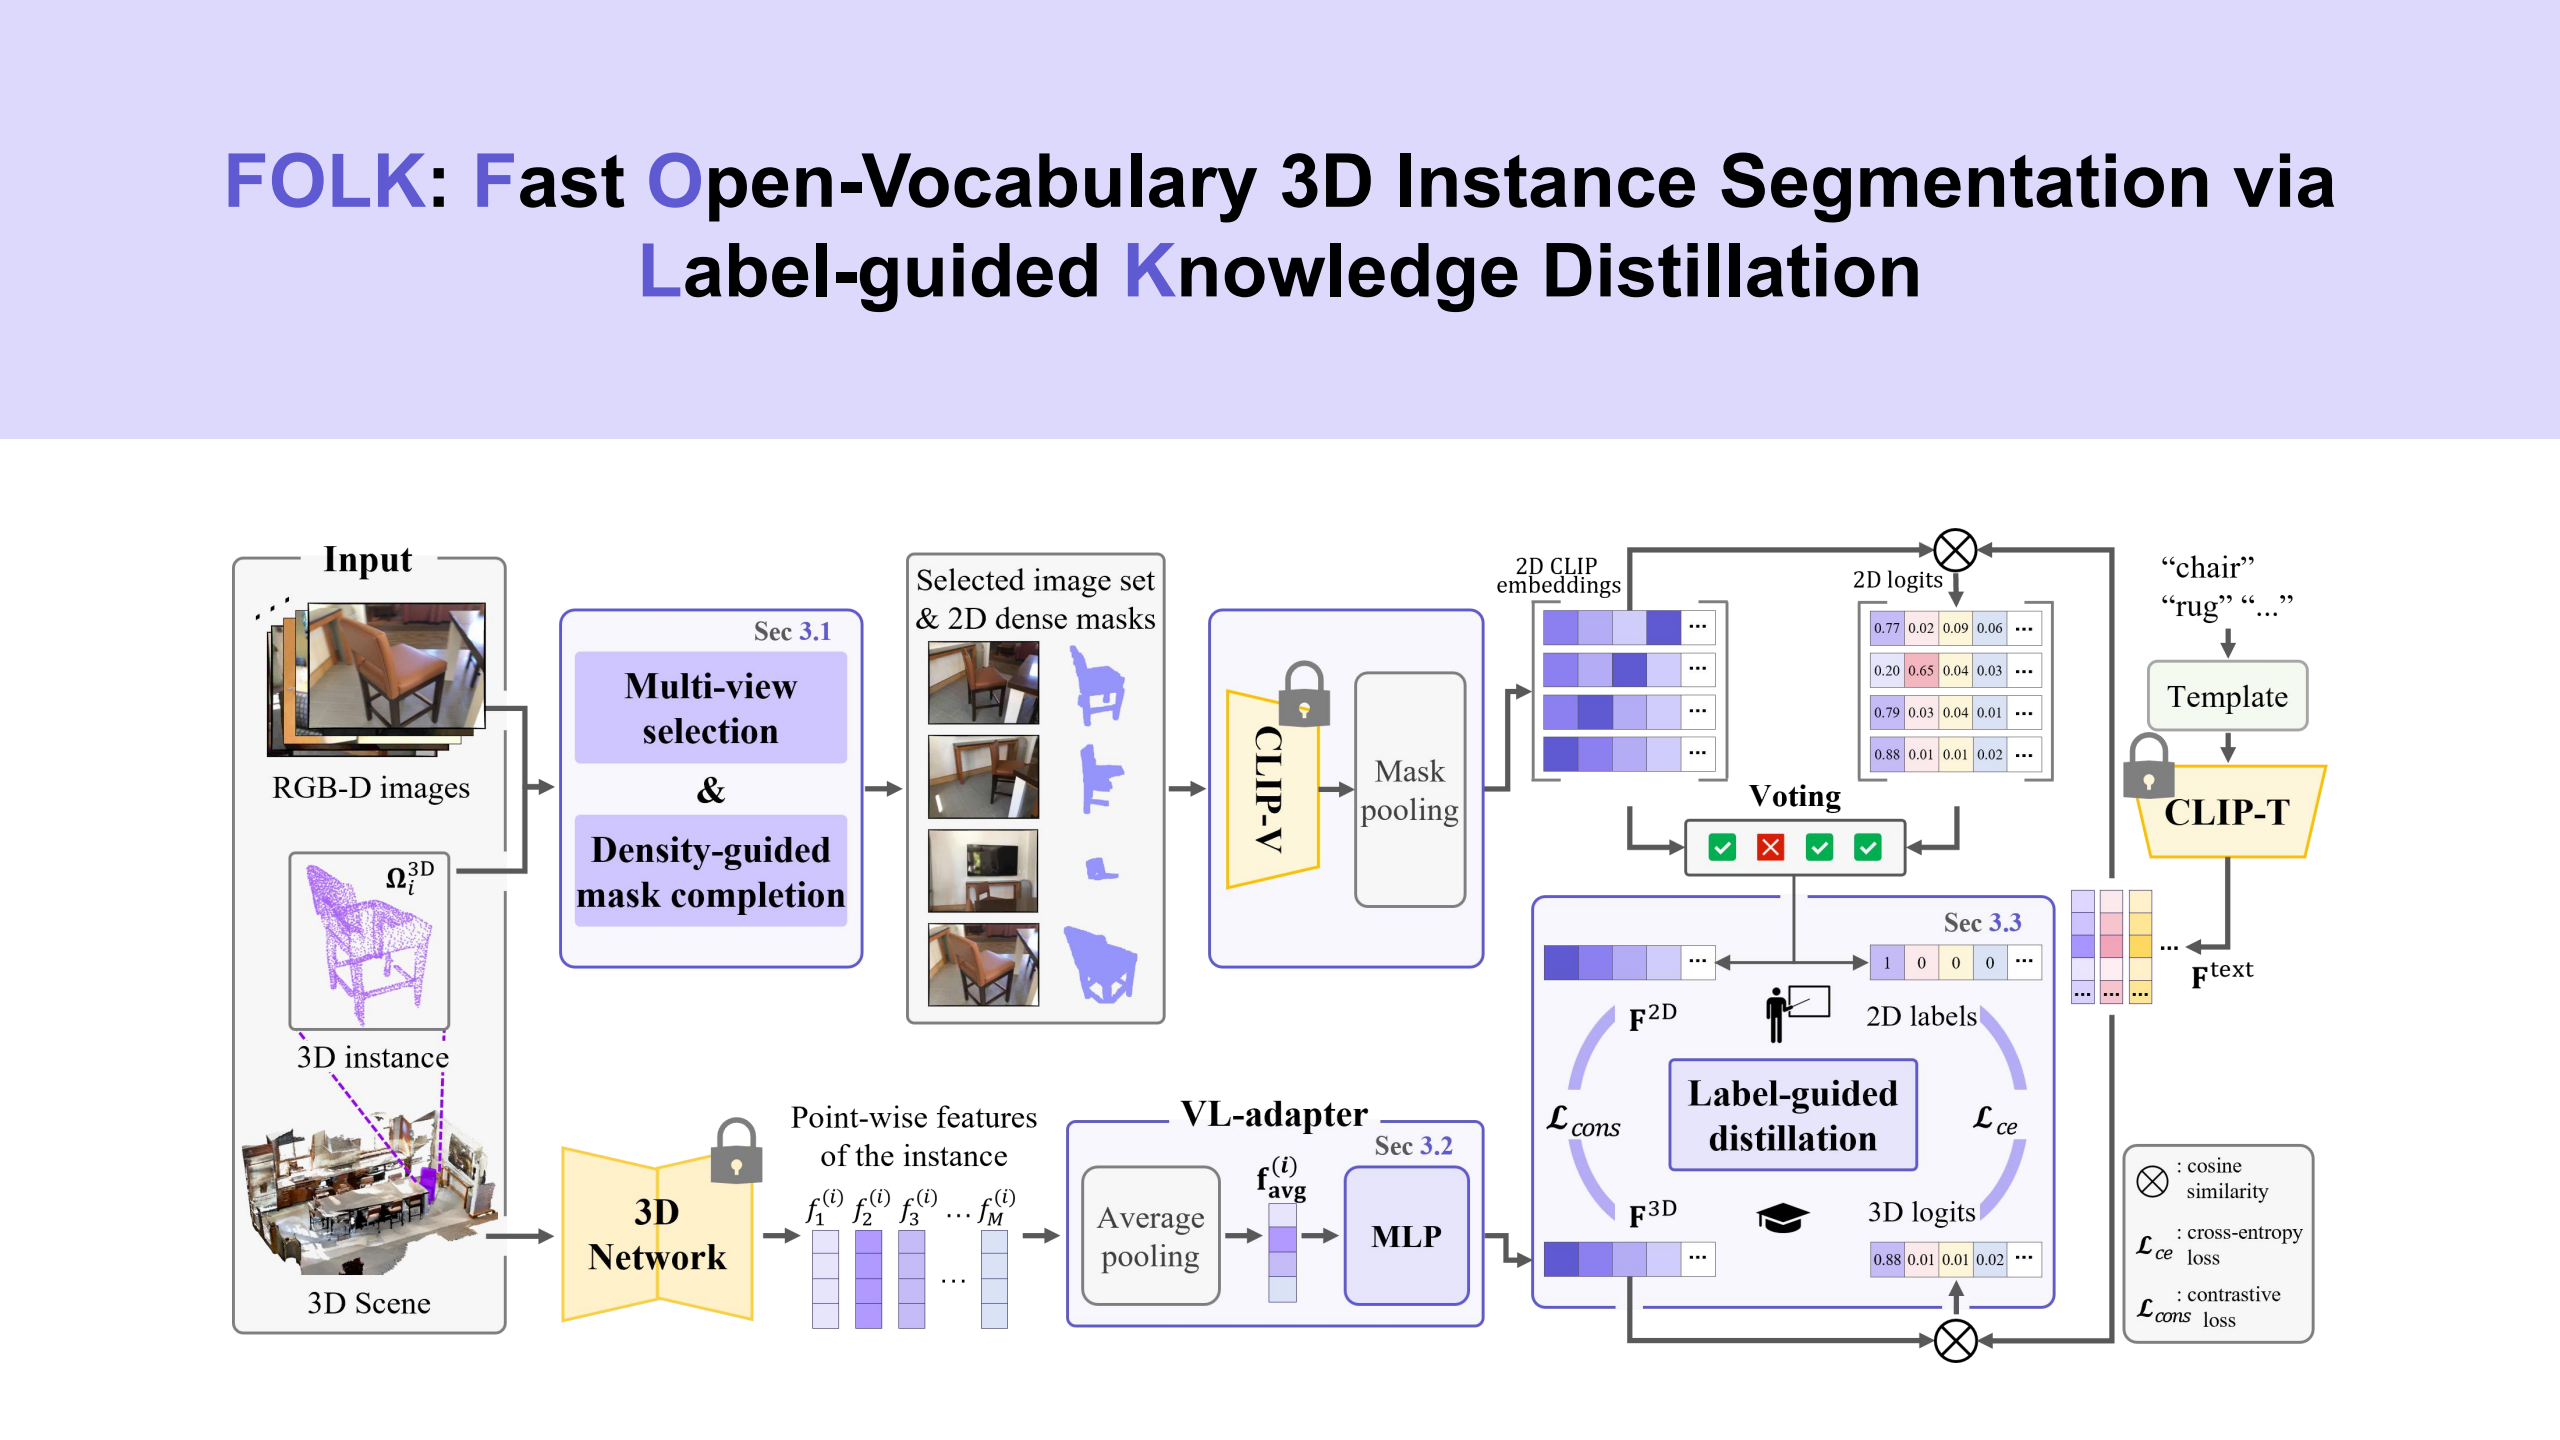
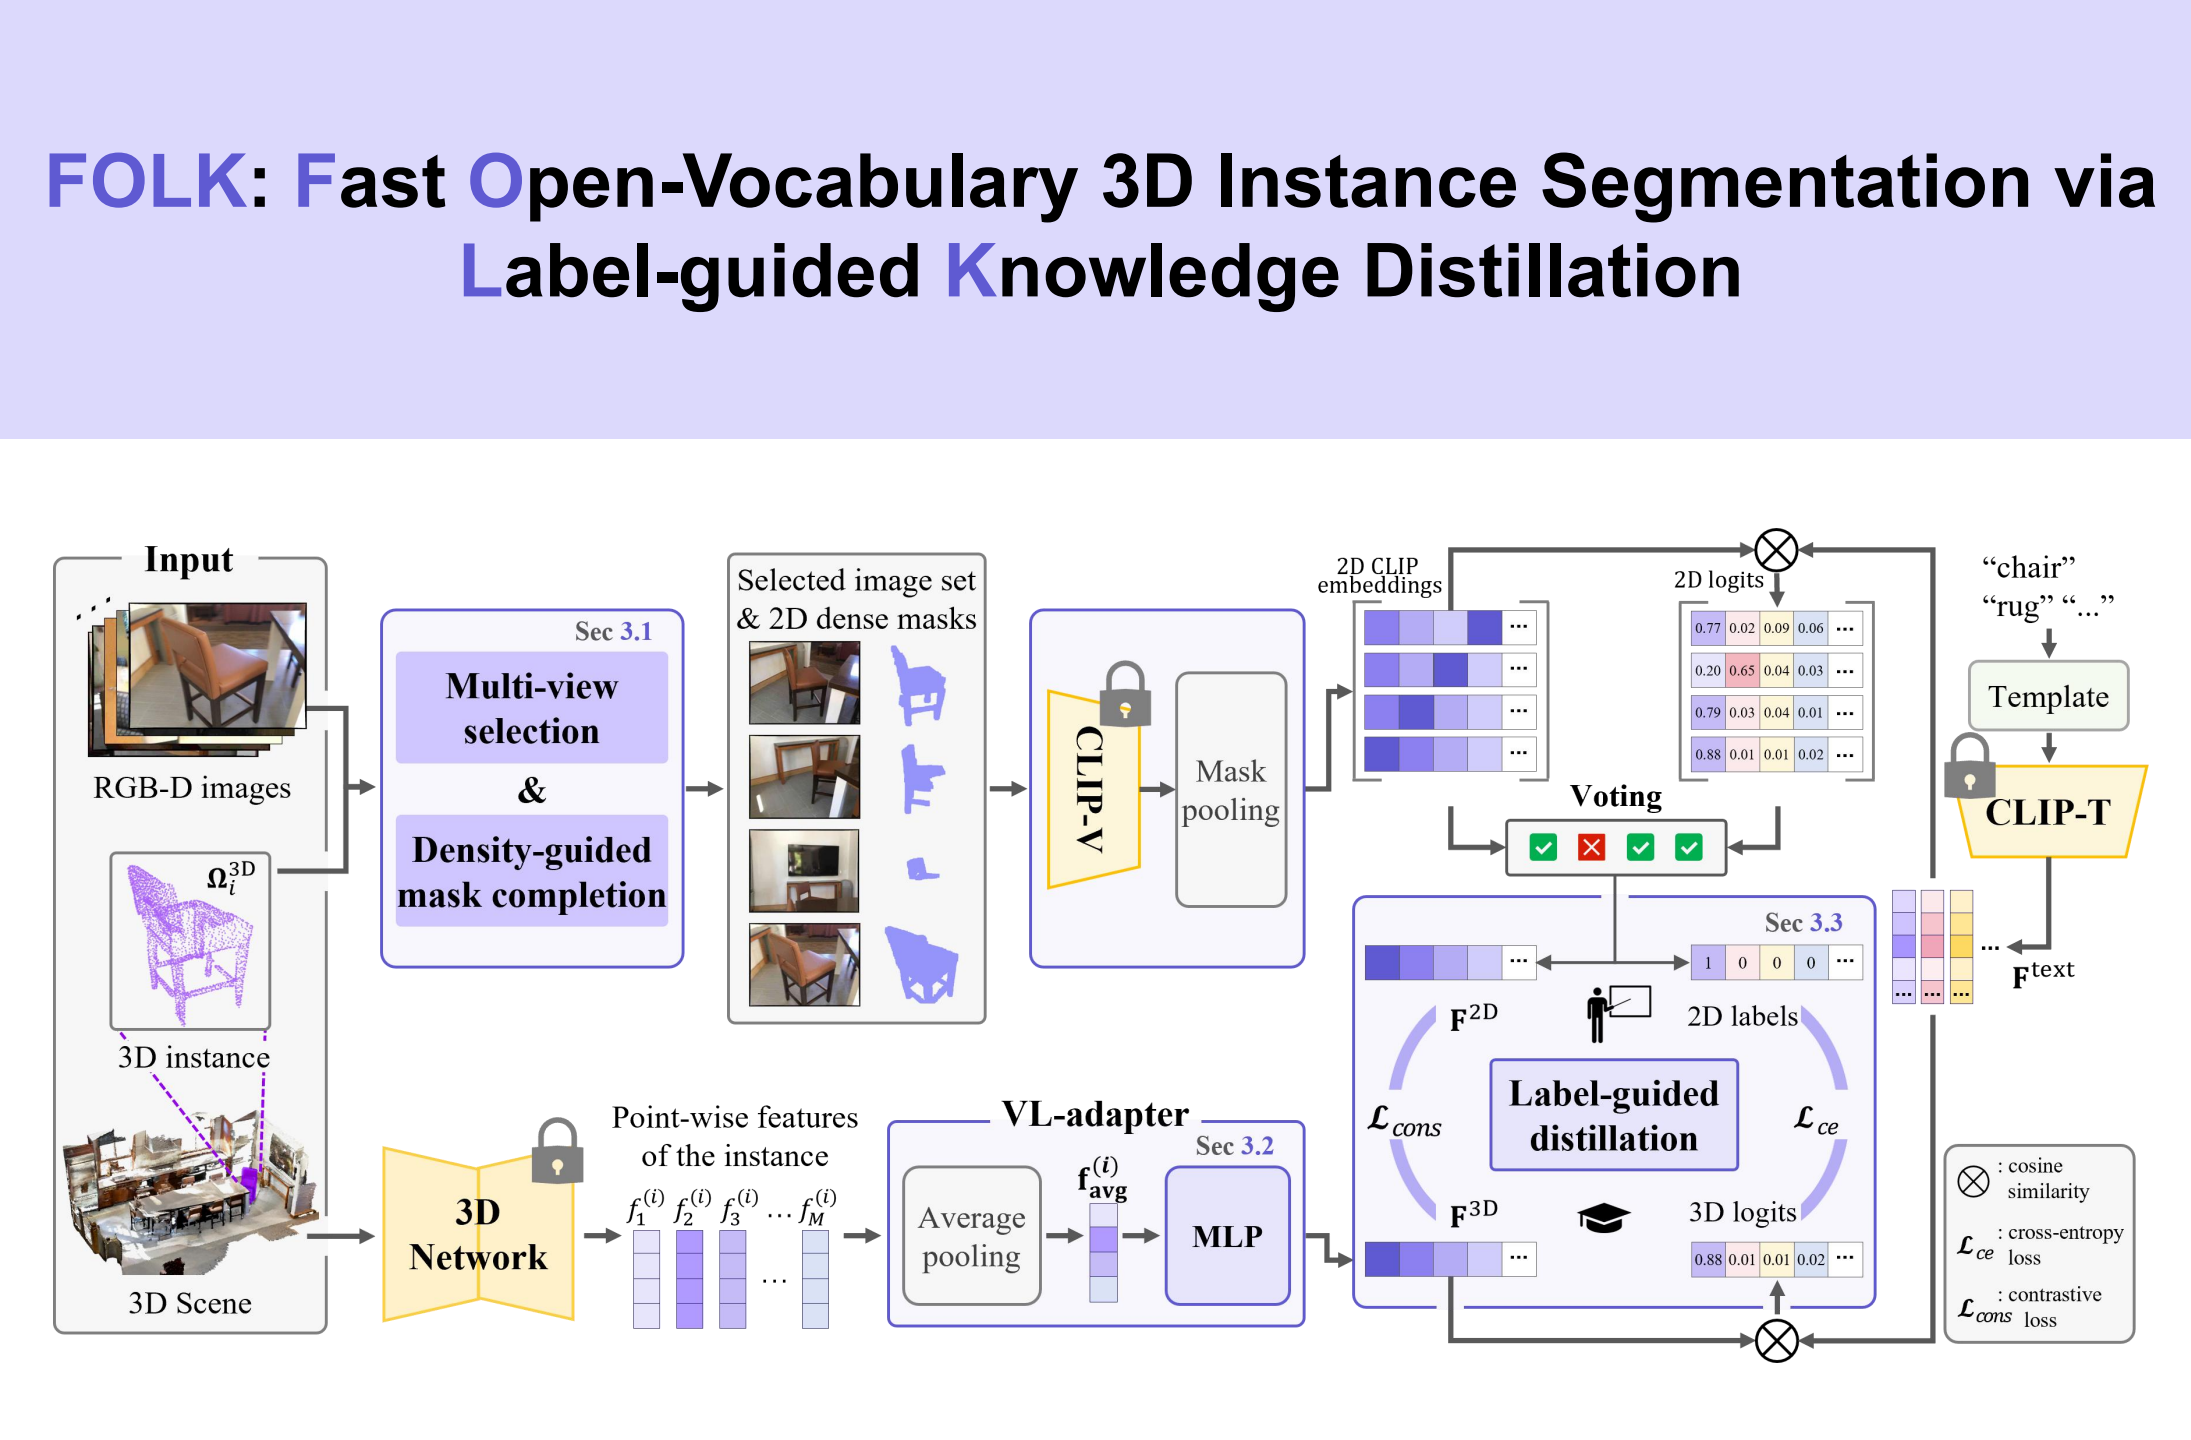
ICCV last version

Changed region(s): [[0.031, 0.375, 0.9932, 0.9375], [0.0, 0.0938, 0.9932, 0.2188]]

diff --git a/_pages/about.md b/_pages/about.md
@@ -240,11 +240,11 @@ Experience
       </video>
     </div>
   </div>
-</div>
+</div> -->
 
 
 <hr>
-<hr> -->
+<hr>
 
 
 
